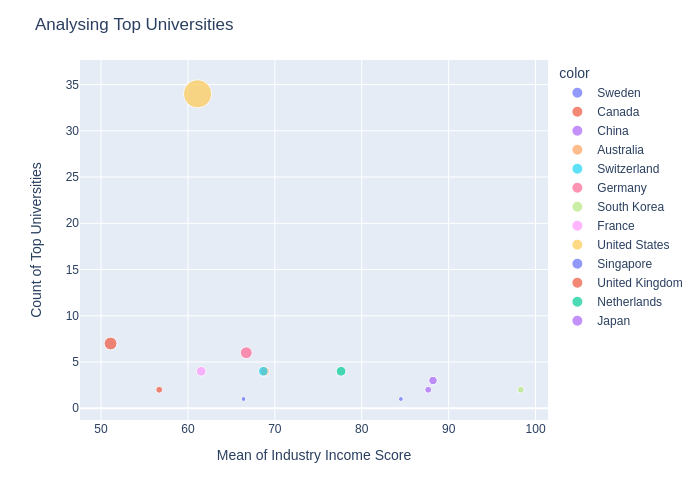
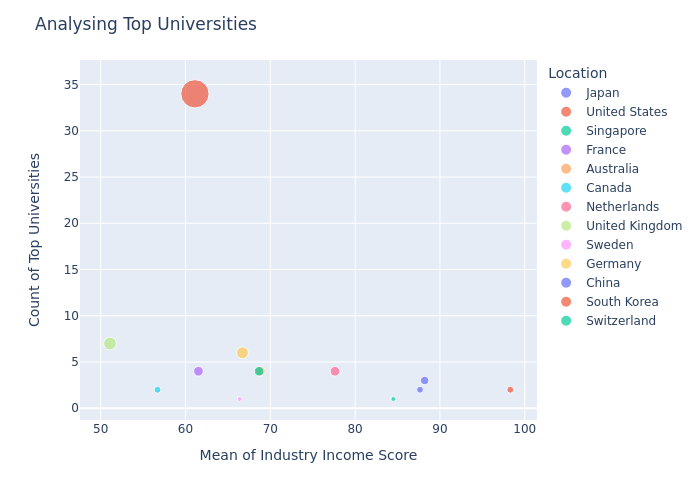
graph ploted

diff --git a/Codes/python_script/test_graph.py b/Codes/python_script/test_graph.py
@@ -1,18 +1,19 @@
 import polars as pl
 import plotly.express as px
 import os
+import pandas as pd 
 
-url = "https://github.com/nogibjj/IDS706-Individual_Project_1_us26/blob/main/Ranking.csv?raw=true"
+url = "https://github.com/nogibjj/IDS-Week4_MiniProject_us26/blob/main/Data/Ranking.csv?raw=true"
 
 dataset = pl.read_csv(url)
-
 
 def visualization(data):
     result1 = data.group_by("Location").agg(pl.col("University Rank").count())
     result2 = data.group_by("Location").agg(pl.col("Industry Income Score").mean())
 
     joined = result1.join(result2, left_on="Location", right_on="Location")
-
+    joined =joined.drop_nulls()
+    joined = joined.to_pandas()
     fig = px.scatter(
         joined,
         x=joined["Industry Income Score"],
@@ -32,7 +33,7 @@ def visualization(data):
         os.mkdir("output_graph")
 
     fig.write_image("output_graph/visualization.png")
+   
+    pass
 
-
-if __name__ == "__main__":
-    visualization(dataset)
+visualization(dataset)

diff --git a/Generated summary report.md b/Generated summary report.md
@@ -1,4 +1,4 @@
-22-Sep-2023 06:04 (UTC)
+22-Sep-2023 06:31 (UTC)
 mean:16.72500000000001
 median:13.5
 std_dev:10.557828968365255
